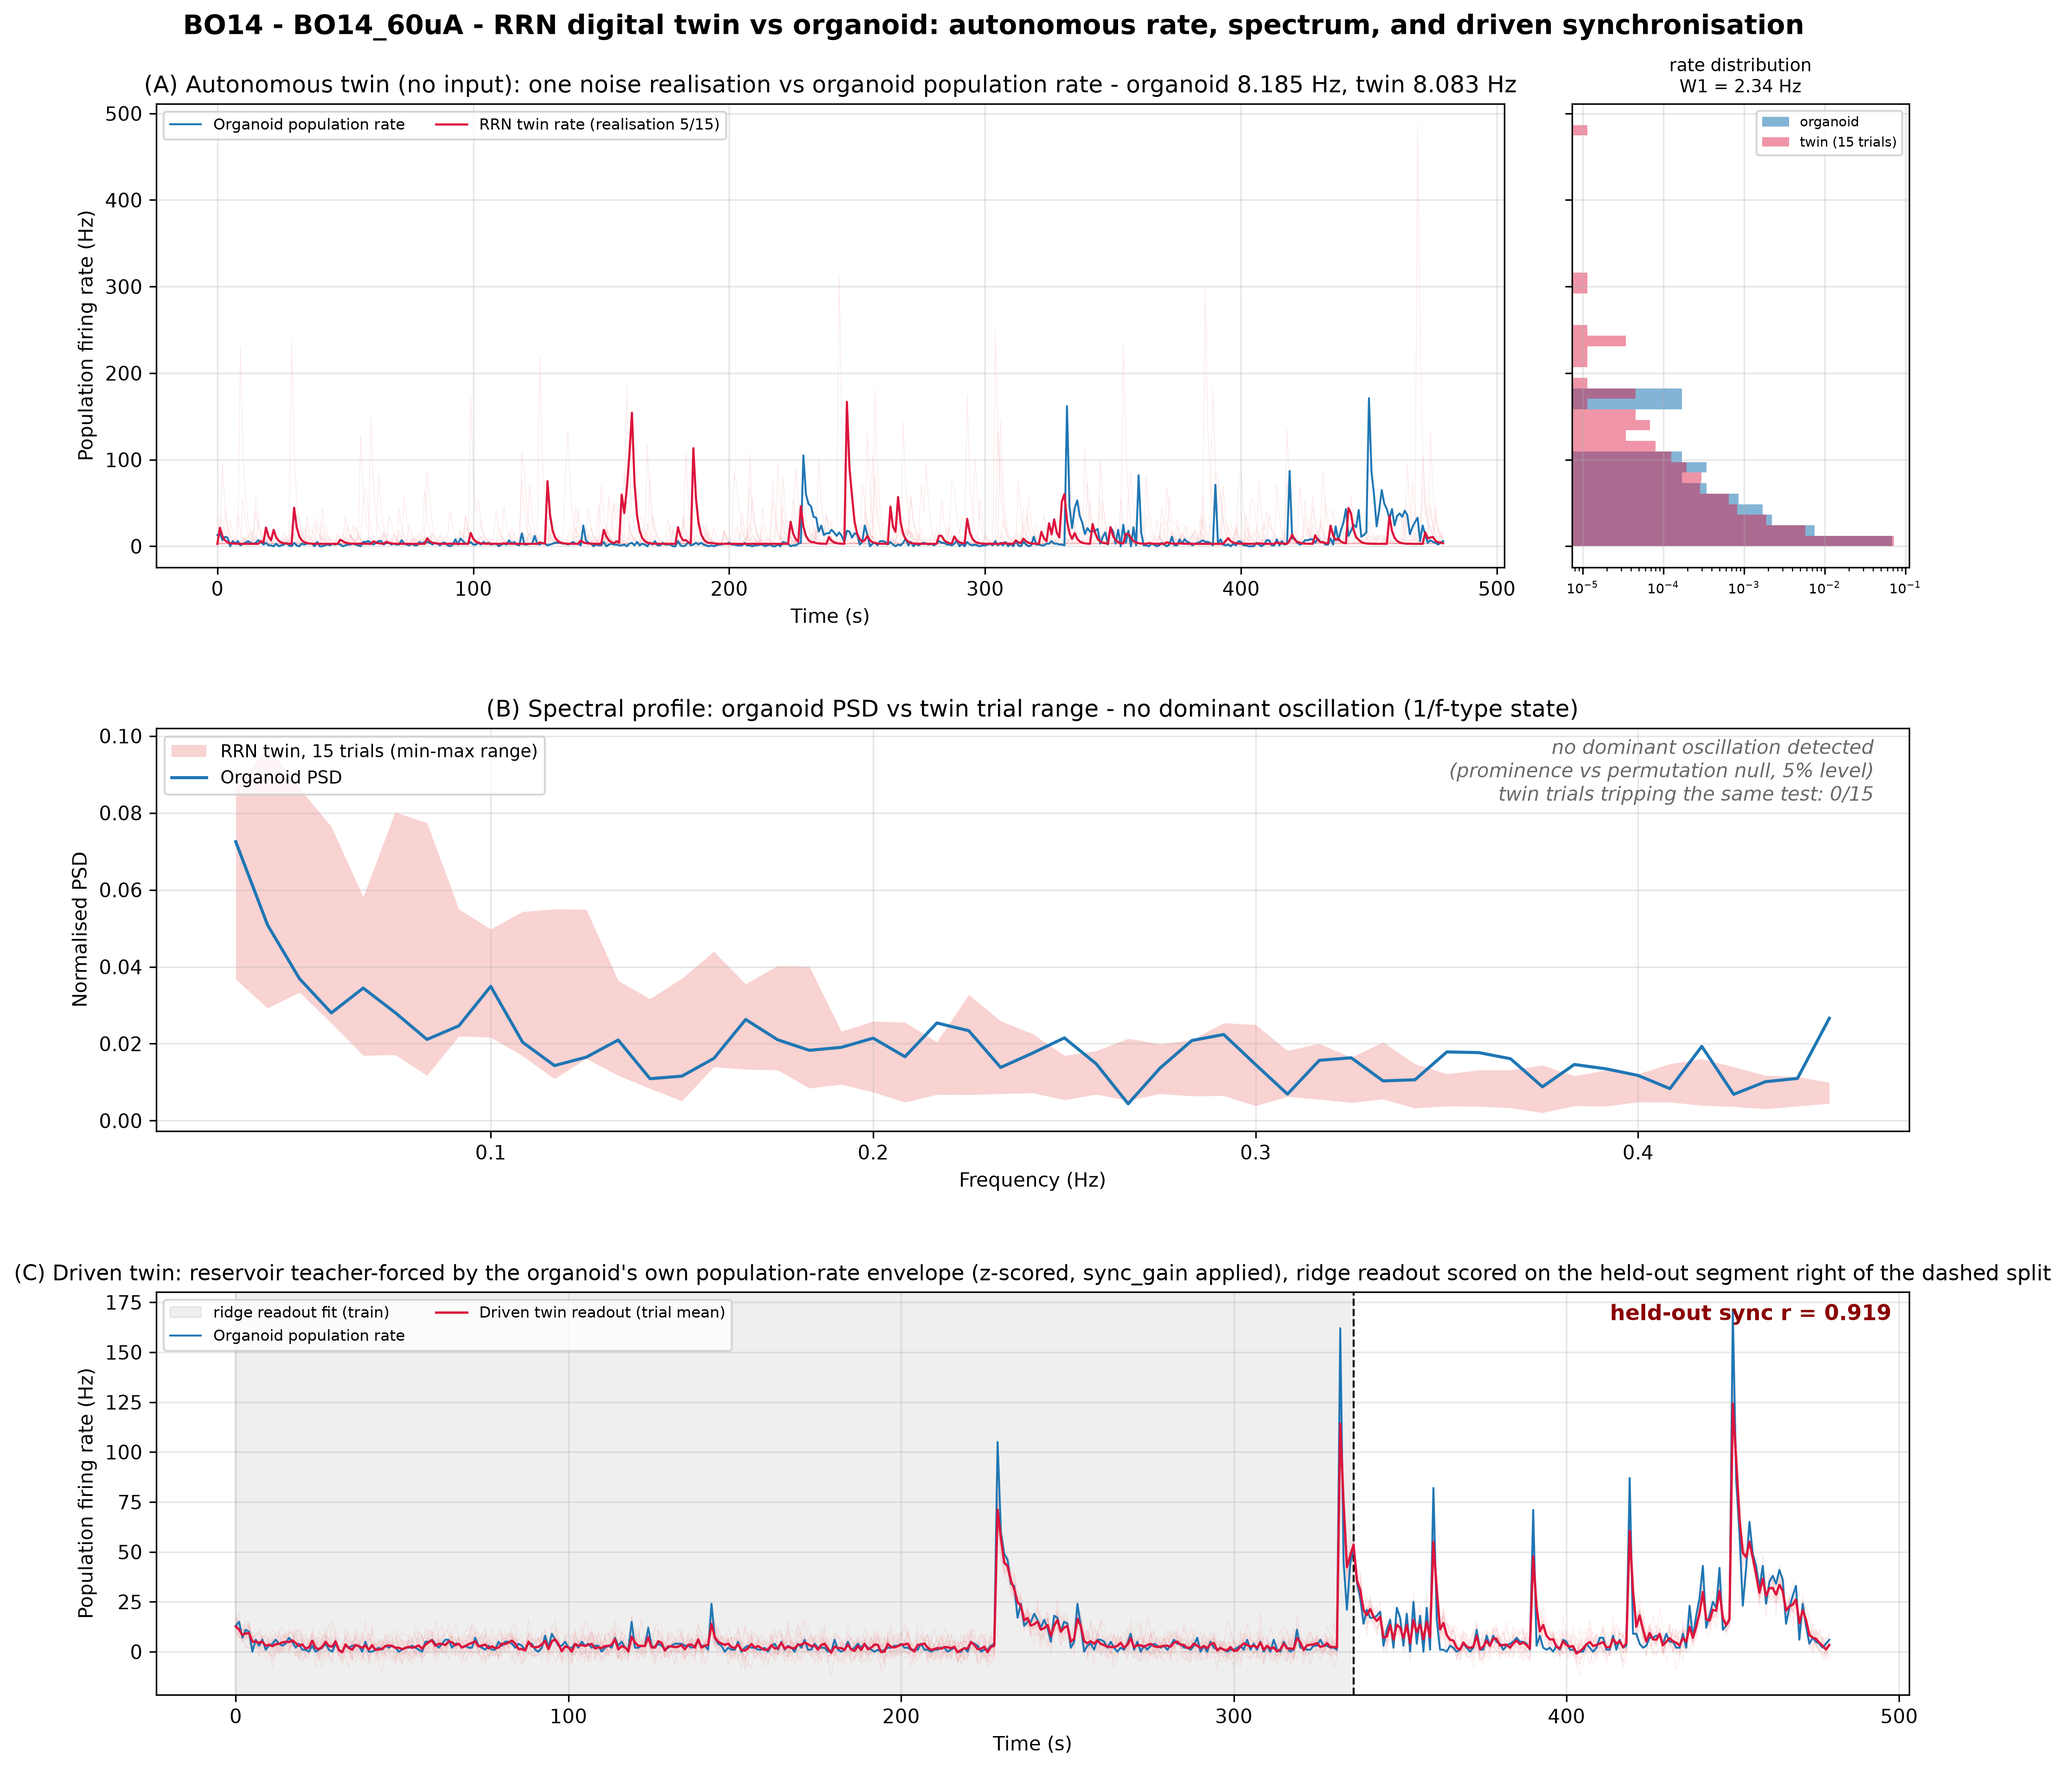
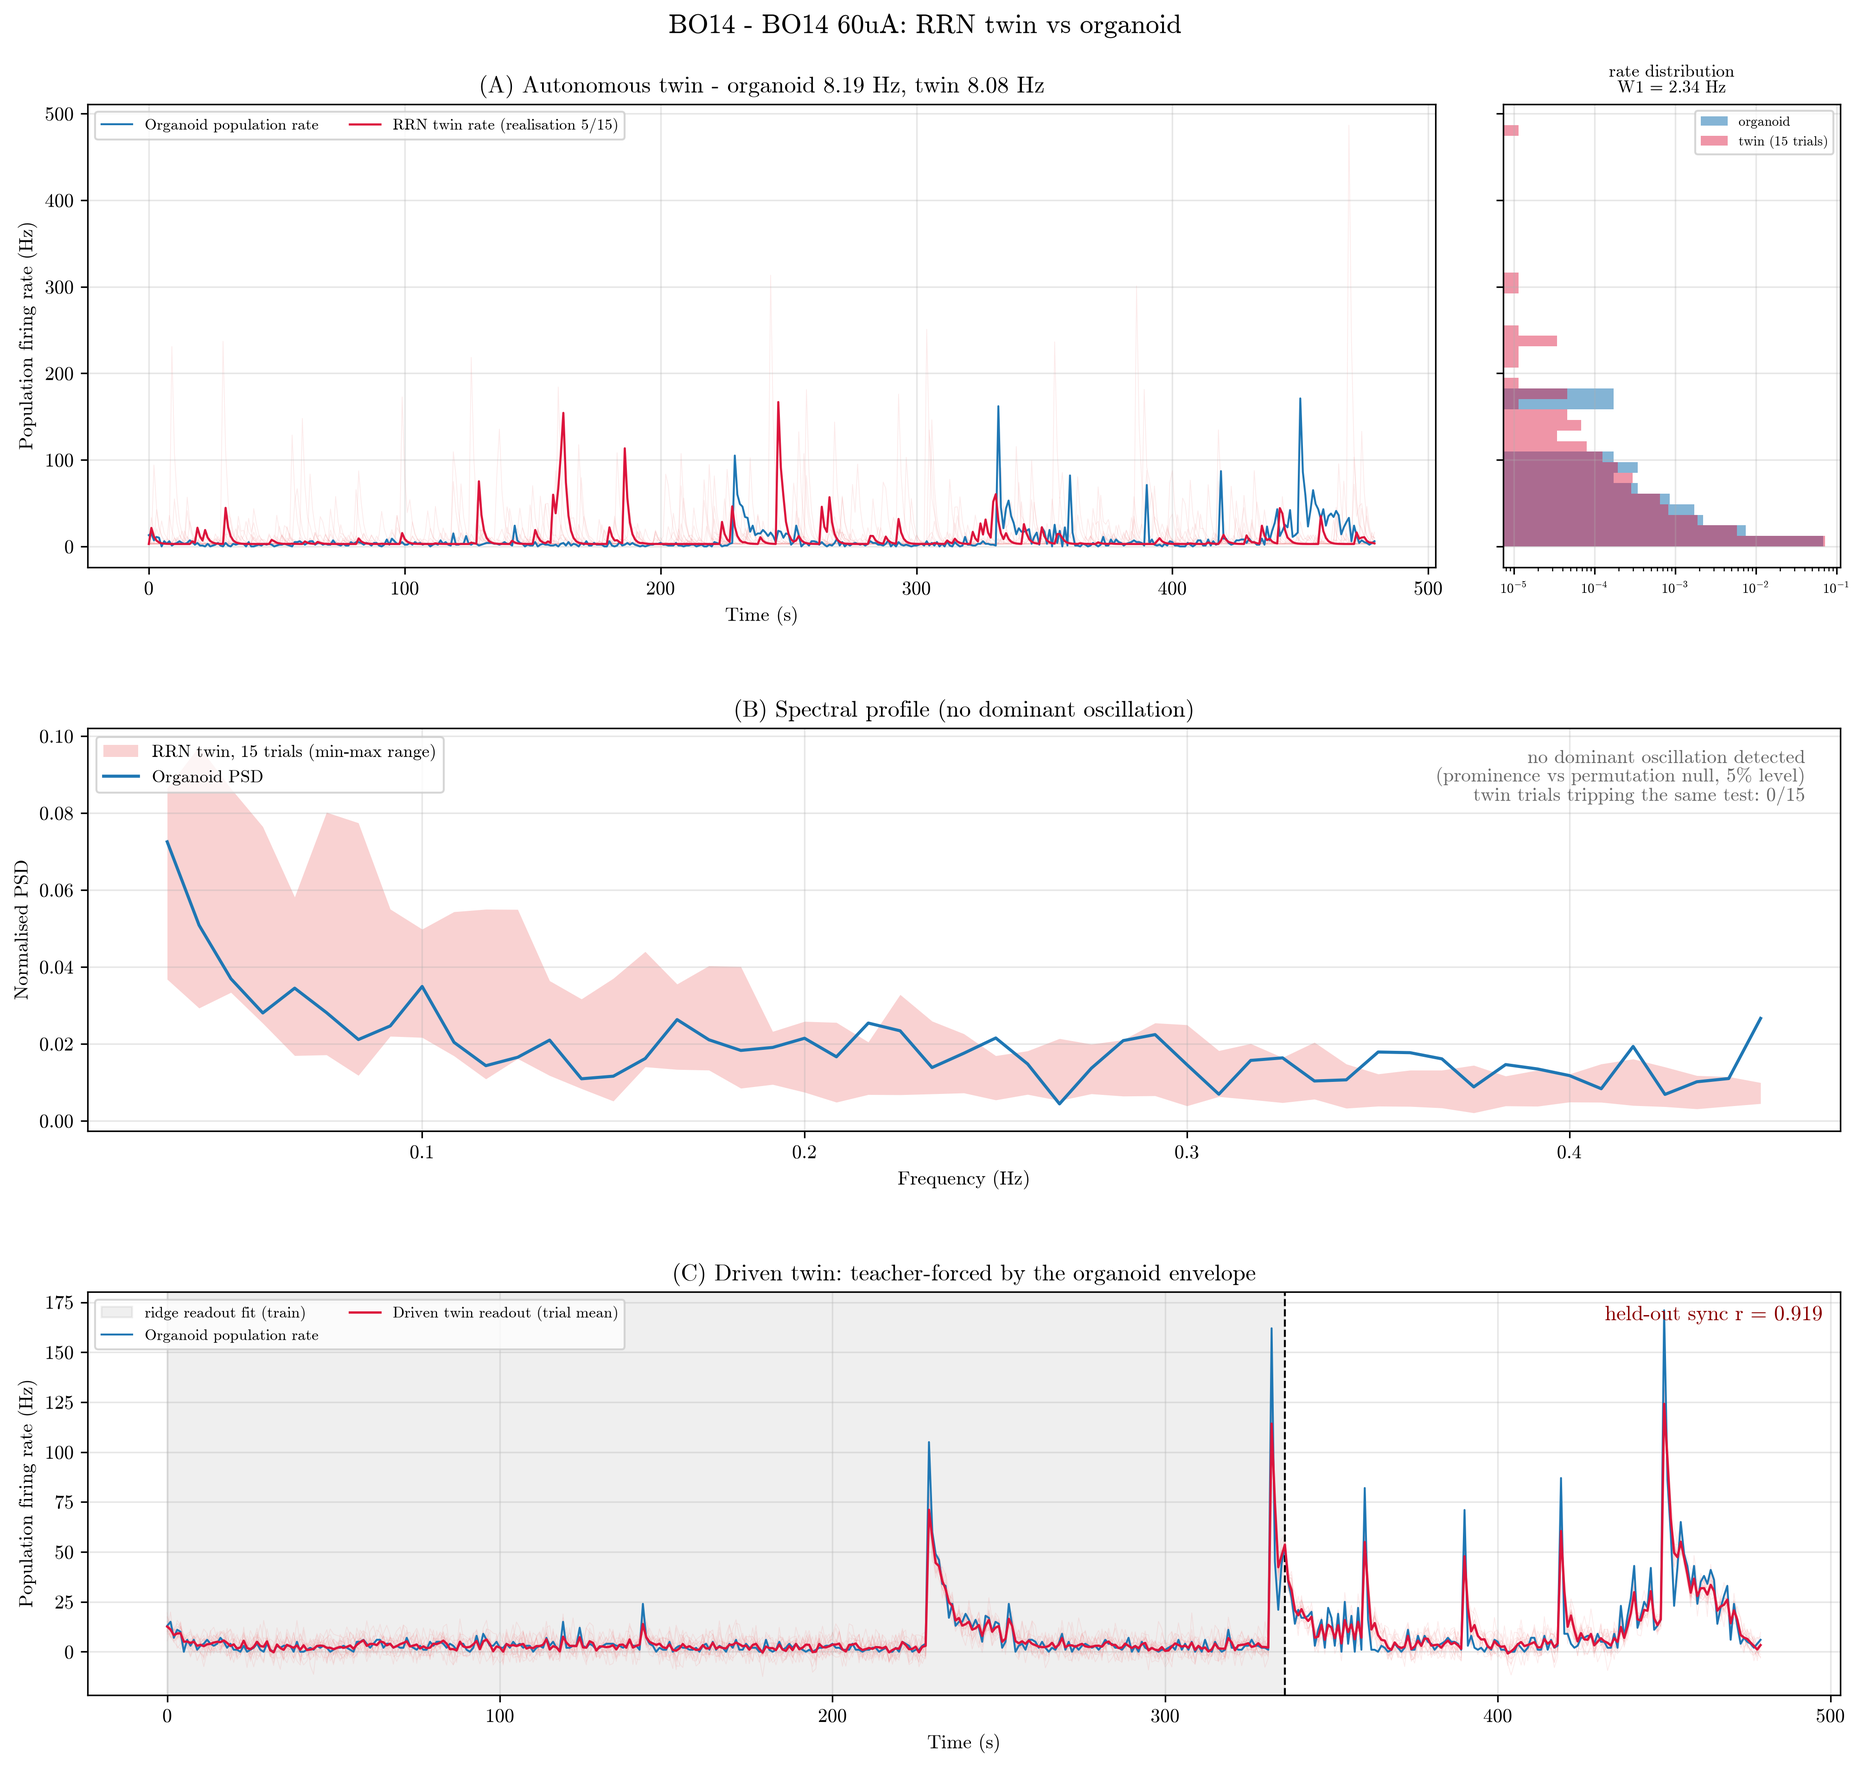
Short titles + Computer Modern (LaTeX) font for twin activity figures
Suptitle and all three panel titles shortened; figure text rendered in
cmr10 (matplotlib's bundled Computer Modern) with CM mathtext for tick
numbers, scoped to plot_twin_activity via rc_context so other pipeline
figures are untouched. Underscores sanitised out of the displayed
suptitle (cmr10's OT1 slot renders them as a dot accent). All 16 figures
regenerated from saved provenance - no re-fitting.

Claude-Session: https://claude.ai/code/session_01RN1k6LkDhtBYKgKcY8fSFe

diff --git a/shell_mea_twin_pipeline.py b/shell_mea_twin_pipeline.py
@@ -1648,6 +1648,26 @@ def plot_ga_report(twin, title, output_path):
     plt.close(fig)
 
 
+# Computer Modern (LaTeX) styling for the paper figure. cmr10 is the actual
+# LaTeX text font bundled with matplotlib; glyphs it lacks (e.g. underscore)
+# fall back per-glyph to STIX/DejaVu serif. Scoped via rc_context so only the
+# twin activity figure is affected.
+_TWIN_TEX_RC = {
+    'font.family': ['cmr10', 'STIXGeneral', 'DejaVu Serif'],
+    'mathtext.fontset': 'cm',
+    'axes.formatter.use_mathtext': True,
+    'axes.unicode_minus': False,
+}
+
+
+def _with_tex_style(fn):
+    def wrapped(*args, **kwargs):
+        with plt.rc_context(_TWIN_TEX_RC):
+            return fn(*args, **kwargs)
+    return wrapped
+
+
+@_with_tex_style
 def plot_twin_activity(twin, pop_env, title, output_path, skeleton=None,
                        W_values=None):
     """Paper-style activity traces (arXiv:2605.25224 Figs. 3B-C / 4A-B).
@@ -1689,10 +1709,9 @@ def plot_twin_activity(twin, pop_env, title, output_path, skeleton=None,
               label=f'RRN twin rate (realisation {rep + 1}/{TWIN_N_TRIALS})')
     ax_a.set_xlabel('Time (s)')
     ax_a.set_ylabel('Population firing rate (Hz)')
-    ax_a.set_title('(A) Autonomous twin (no input): one noise realisation vs '
-                   'organoid population rate - organoid '
-                   f"{targets['target_rate']:.3f} Hz, twin "
-                   f"{details['pred_rate']:.3f} Hz")
+    ax_a.set_title(f"(A) Autonomous twin - organoid "
+                   f"{targets['target_rate']:.2f} Hz, twin "
+                   f"{details['pred_rate']:.2f} Hz")
     ax_a.legend(fontsize=8, ncol=2)
     ax_a.grid(True, alpha=0.3)
 
@@ -1725,11 +1744,9 @@ def plot_twin_activity(twin, pop_env, title, output_path, skeleton=None,
     if targets['target_freq'] is not None:
         ax_b.axvline(targets['target_freq'], color='black', ls='--', lw=1.2,
                      label=f"target {targets['target_freq']:.3f} Hz")
-        ax_b.set_title('(B) Spectral profile: organoid PSD vs twin trial range '
-                       '- dominant network oscillation vs target')
+        ax_b.set_title('(B) Spectral profile (dominant oscillation vs target)')
     else:
-        ax_b.set_title('(B) Spectral profile: organoid PSD vs twin trial range '
-                       '- no dominant oscillation (1/f-type state)')
+        ax_b.set_title('(B) Spectral profile (no dominant oscillation)')
         spur = int(round(details.get('twin_peak_frac', 0.0) * TWIN_N_TRIALS))
         ax_b.text(0.98, 0.82, 'no dominant oscillation detected\n'
                   '(prominence vs permutation null, 5% level)\n'
@@ -1765,15 +1782,14 @@ def plot_twin_activity(twin, pop_env, title, output_path, skeleton=None,
               color='darkred', fontweight='bold')
     ax_c.set_xlabel('Time (s)')
     ax_c.set_ylabel('Population firing rate (Hz)')
-    ax_c.set_title("(C) Driven twin: reservoir teacher-forced by the "
-                   "organoid's own population-rate envelope (z-scored, "
-                   "sync_gain applied), ridge readout scored on the held-out "
-                   "segment right of the dashed split", fontsize=11)
+    ax_c.set_title("(C) Driven twin: teacher-forced by the organoid envelope")
     ax_c.legend(fontsize=8, ncol=2, loc='upper left')
     ax_c.grid(True, alpha=0.3)
 
     fig.subplots_adjust(top=0.93, bottom=0.05, left=0.07, right=0.97)
-    plt.suptitle(title, fontsize=14, fontweight='bold')
+    # cmr10 (OT1 encoding) has no underscore glyph - the slot renders as a
+    # dot accent - so sanitise it out of the displayed title only
+    plt.suptitle(title.replace('_', ' '), fontsize=14, fontweight='bold')
     _safe_savefig(fig, output_path)
     plt.close(fig)
 
@@ -1949,9 +1965,7 @@ def process_recording(rec, out_base):
                            f'{subject} - {label} - NSGA-III optimisation',
                            os.path.join(tw_dir, 'ga_pareto_convergence.png'))
             plot_twin_activity(twin_result, pop_env,
-                               f"{subject} - {label} - RRN digital twin vs "
-                               "organoid: autonomous rate, spectrum, and "
-                               "driven synchronisation",
+                               f"{subject} - {label}: RRN twin vs organoid",
                                os.path.join(tw_dir, 'twin_activity_traces.png'),
                                skeleton=skel, W_values=Wv)
             # CEBRA compares the DRIVEN reservoir's amplitudes (the twin

diff --git a/run_twinning_only.py b/run_twinning_only.py
@@ -109,9 +109,7 @@ def main():
                     os.path.join(tw_dir, 'ga_pareto_convergence.png'))
                 pipe.plot_twin_activity(
                     tw, pop_env,
-                    f"{rec['subject']} - {label} - RRN digital twin vs "
-                    "organoid: autonomous rate, spectrum, and driven "
-                    "synchronisation",
+                    f"{rec['subject']} - {label}: RRN twin vs organoid",
                     os.path.join(tw_dir, 'twin_activity_traces.png'),
                     skeleton=skel, W_values=Wv)
                 params_json = {

diff --git a/replot_twin_activity.py b/replot_twin_activity.py
@@ -57,8 +57,7 @@ def main():
     out = os.path.join(tw_dir, 'twin_activity_traces.png')
     pipe.plot_twin_activity(
         twin, pop_env,
-        f"{subject} - {label} - RRN digital twin vs organoid: autonomous "
-        "rate, spectrum, and driven synchronisation",
+        f"{subject} - {label}: RRN twin vs organoid",
         out, skeleton=skeleton, W_values=W_values)
     print(f'Rewrote {out}')
 
